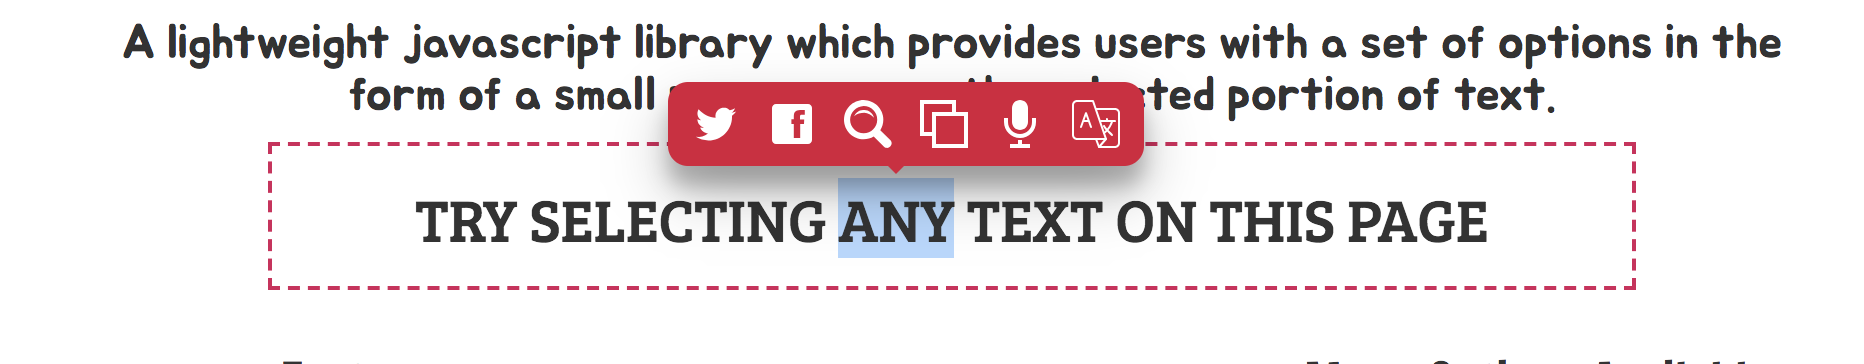
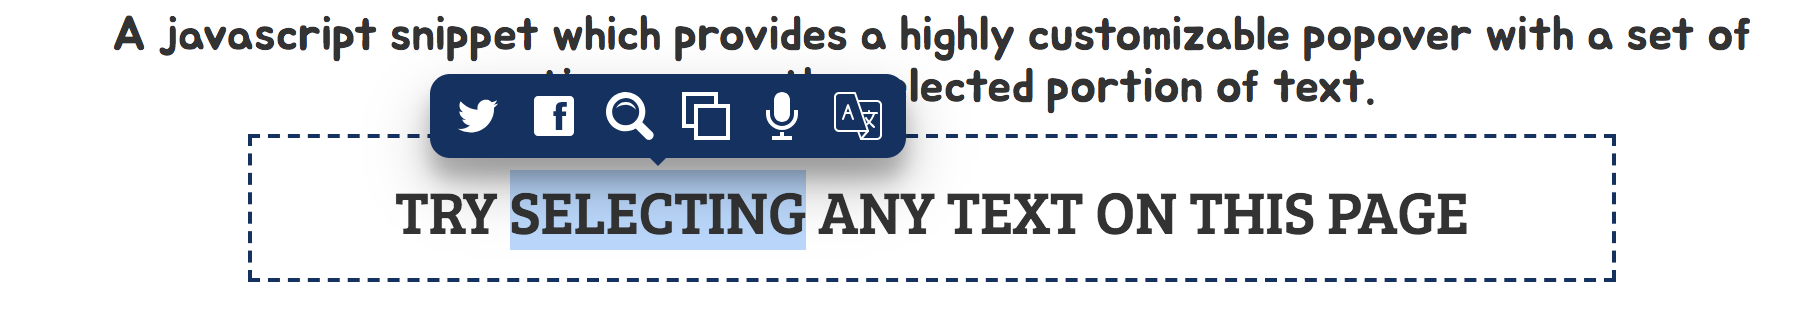
added the new screenshot

diff --git a/README.md b/README.md
@@ -1,5 +1,5 @@
 <p align="center">
-  <a href="https://github.com/Shai1436/TextPopover.js"><img alt="Text Popover" src="./logo.png" width="100px"></a>
+  <a href="https://github.com/Shai1436/TextPopover.js"><img alt="Text Popover" src="./logo.png" width="150px"></a>
 </p>
 <p align="center">
   A javascript snippet which provides a highly customizable popover with a set of options, over the selected portion of text.
